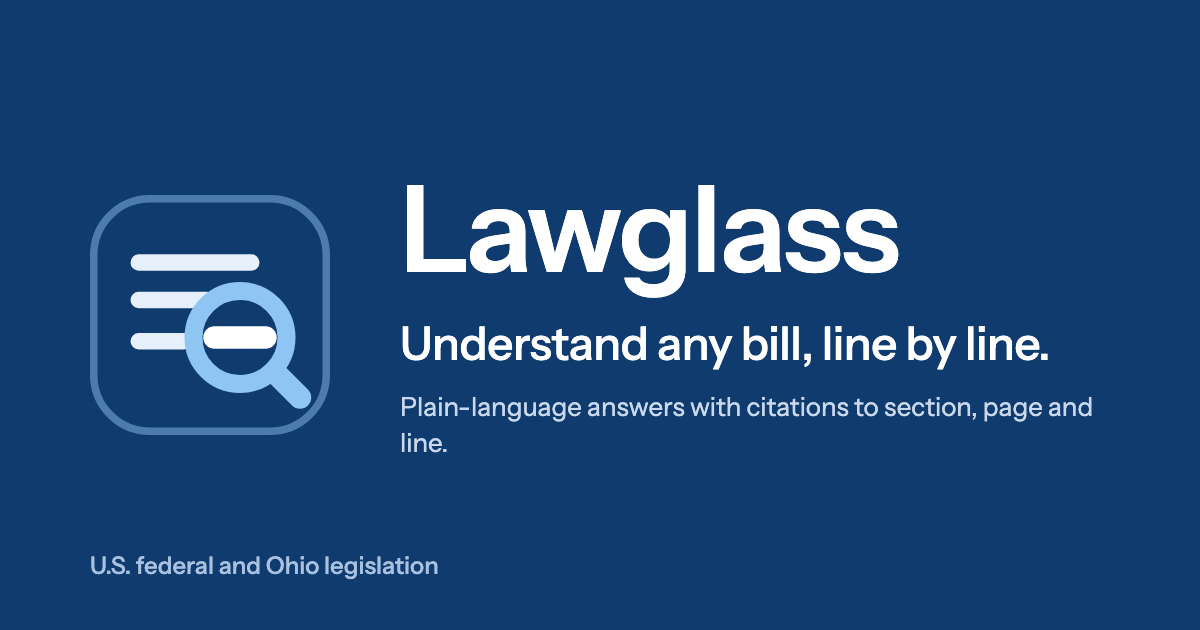
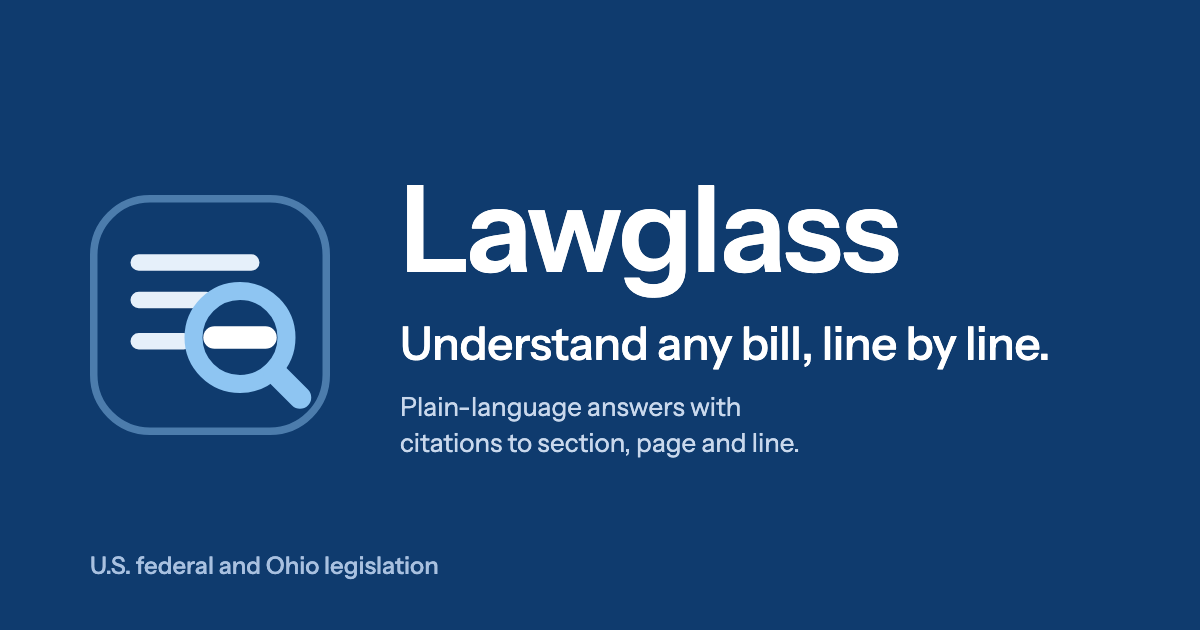
fix(web): balance og subline; record-demo builds a dev-mode UI for the mock (#248)

Changed region(s): [[0.3392, 0.6937, 0.6783, 0.7238], [0.6167, 0.6333, 0.925, 0.6635]]

diff --git a/scripts/record-demo.ts b/scripts/record-demo.ts
@@ -6,8 +6,9 @@
  *   npx tsx scripts/record-demo.ts --url http://127.0.0.1:4317 --doc "s202" \
  *     --chip "Who does it affect?" --out docs/demo.gif --width 720 --max-seconds 240
  *
- * Dry run (no server or model needed): serves the built `dist/web` with the scripted mock UI
- * (`?mock=1`), so run `npm run build` first. Write somewhere other than docs/demo.gif:
+ * Dry run (no server or model needed): serves a development-mode build of the web UI
+ * (built into a temp dir on the fly) with the scripted mock UI (`?mock=1`). Production builds
+ * deliberately exclude the mock. Write somewhere other than docs/demo.gif:
  *
  *   npx tsx scripts/record-demo.ts --dry-run --out /tmp/demo-dry/demo.gif
  *
@@ -16,7 +17,7 @@
  * strip and history card are skipped when a bill has none. Needs Chromium from Playwright
  * (`npx playwright install chromium`) and ffmpeg on PATH.
  */
-import { execFile } from 'node:child_process';
+import { execFile, execFileSync } from 'node:child_process';
 import { createServer, type Server } from 'node:http';
 import { mkdir, mkdtemp, readdir, readFile, rm } from 'node:fs/promises';
 import { tmpdir } from 'node:os';
@@ -55,9 +56,22 @@ const MIME: Record<string, string> = {
   '.woff2': 'font/woff2',
 };
 
-/** Static server for the built web UI, so a dry run needs no API server. */
+/** Static server for a dev-mode web build (the mock only exists when DEV is true). */
 async function serveBuiltUi(): Promise<{ server: Server; url: string }> {
-  const root = resolve('dist/web');
+  const root = await mkdtemp(join(tmpdir(), 'demo-ui-'));
+  execFileSync(
+    'npx',
+    [
+      'vite',
+      'build',
+      '--mode',
+      'development',
+      '--outDir',
+      root,
+      '--emptyOutDir',
+    ],
+    { stdio: 'ignore' },
+  );
   const server = createServer((req, res) => {
     const path = new URL(req.url ?? '/', 'http://x').pathname;
     const file = resolve(root, `.${path === '/' ? '/index.html' : path}`);

diff --git a/scripts/brand-assets.ts b/scripts/brand-assets.ts
@@ -48,7 +48,7 @@ body{margin:0;width:1200px;height:630px;background:#0f3b6e;color:#fff;font-famil
 .mark svg{width:100%;height:100%}
 .name{font-size:120px;font-weight:600;letter-spacing:-0.02em;line-height:1}
 .tag{font-size:46px;font-weight:500;margin-top:26px;letter-spacing:-0.01em}
-.detail{font-size:26px;font-weight:400;margin-top:18px;color:#c9d8ec;max-width:760px;line-height:1.35}
+.detail{font-size:26px;font-weight:400;margin-top:18px;color:#c9d8ec;max-width:760px;line-height:1.35;text-wrap:balance}
 .foot{position:absolute;left:90px;bottom:50px;font-size:24px;color:#a9c1e0;font-weight:500}
 </style></head><body>
 <div class="mark">${markSvg}</div>
